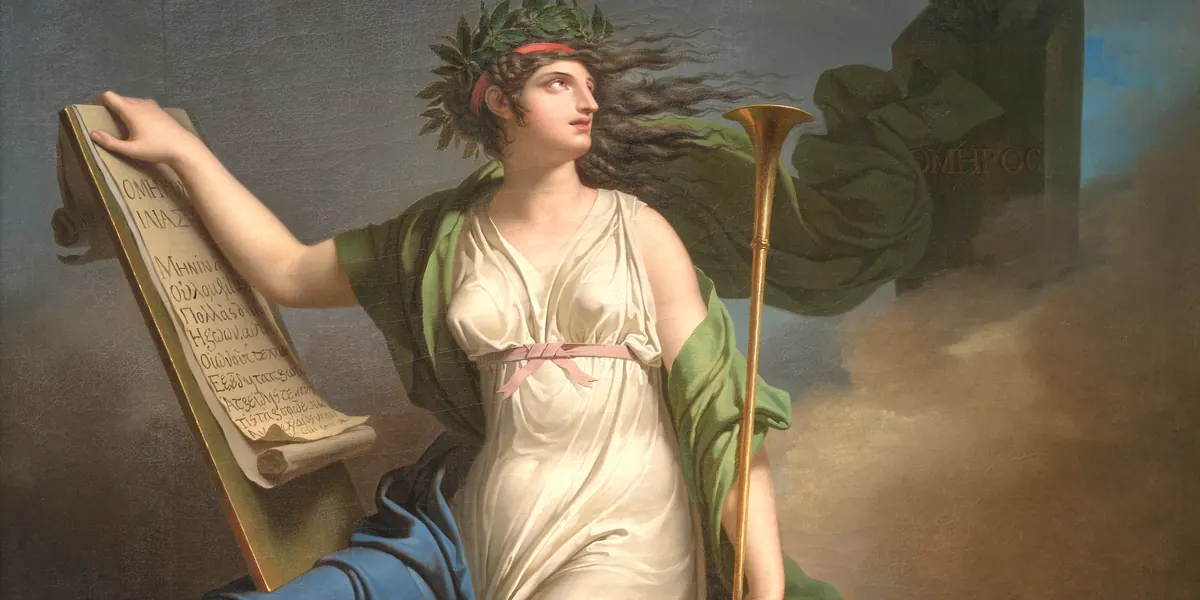
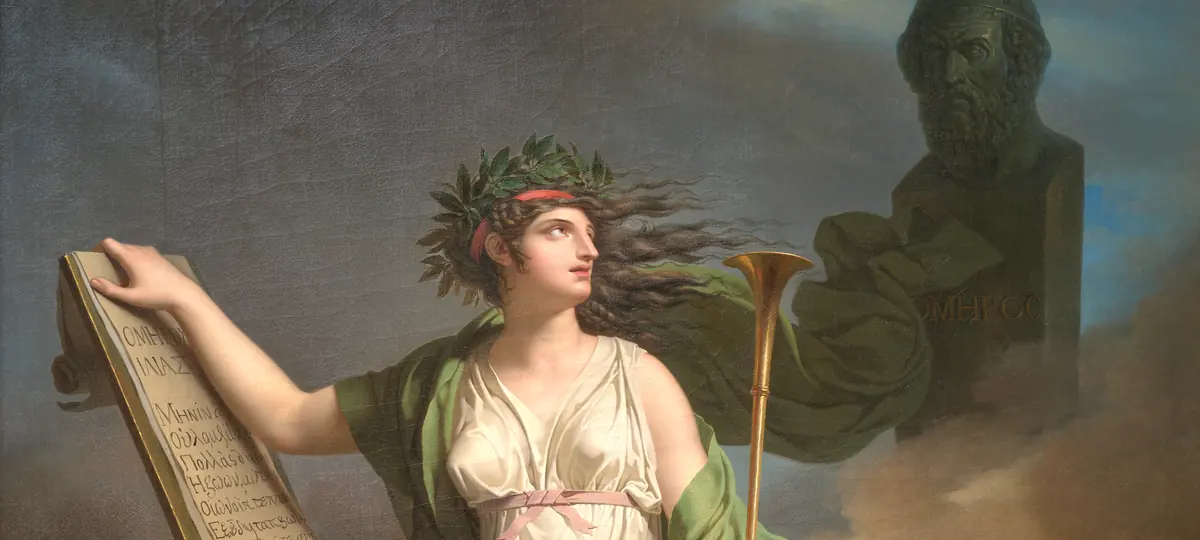
fix: stop the plate losing its subject on a wide screen
The hero height was clamp(420px, 46vw, 660px), so past about 1440px the box
kept widening while the height stood still. At 1920px it showed 68 percent of
a 2:1 plate and at 2560px barely half, and what cover discarded was the top
and bottom: the heads. The height is now 45vw, which is exactly the 20:9 the
plates are cut to, so nothing is thrown away between roughly 850 and 2300px.

Plates recut at 20:9 with anchors chosen by looking at each one rather than
by arithmetic: keeper 20, conductor 10, reporter 14, thinker 46. Reporter's
head was never missing from the file, it was being cropped away at display
time; 14 keeps both the head and the torso out of frame.

Three widths each behind srcset instead of two. A single 2400px plate was
under 1x on any wide retina screen, which is the blur. Reporter tops out at
2758 because that is the largest scan of the Guy Head that exists anywhere.

diff --git a/overrides/home.html b/overrides/home.html
@@ -9,7 +9,7 @@
   {{ super() }}
   <link rel="preload" as="image" fetchpriority="high"
         href="{{ hero.image | url }}"
-        imagesrcset="{{ hero.image_small | url }} 1200w, {{ hero.image | url }} 2400w"
+        imagesrcset="{{ hero.srcset }}"
         imagesizes="100vw">
 {% endblock %}
 
@@ -18,7 +18,7 @@
   <div class="hero" data-name="{{ hero.masthead | lower }}" data-align="{{ hero.align | default('left') }}">
     <img class="hero__image" fetchpriority="high" alt="{{ hero.image_alt }}"
          src="{{ hero.image | url }}"
-         srcset="{{ hero.image_small | url }} 1200w, {{ hero.image | url }} 2400w"
+         srcset="{{ hero.srcset }}"
          sizes="100vw">
     <div class="hero__layer">
       <div class="md-grid hero__inner">

diff --git a/docs/stylesheets/hero.css b/docs/stylesheets/hero.css
@@ -6,7 +6,11 @@
   position: relative;
   overflow: hidden;
   background: #1a0b10;
-  height: clamp(420px, 46vw, 660px);
+  /* 45vw is exactly 20:9, the aspect the plates are cut to, so `cover` throws
+     nothing away between roughly 850px and 2300px of viewport. The old fixed
+     660px cap meant a 1920px screen saw only 68 percent of the plate height
+     and a 2560px screen barely half, which is what was cutting off heads. */
+  height: clamp(380px, 45vw, 1040px);
   margin-top: -1px;
 }
 
